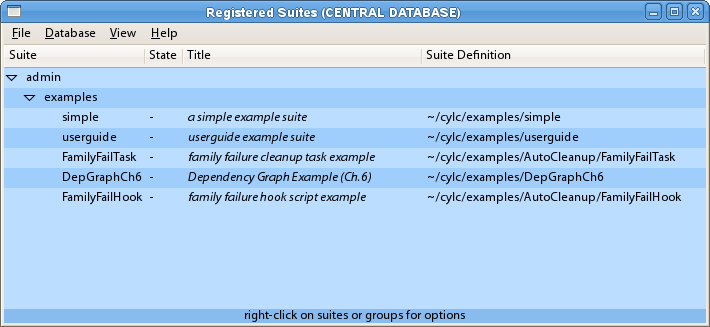
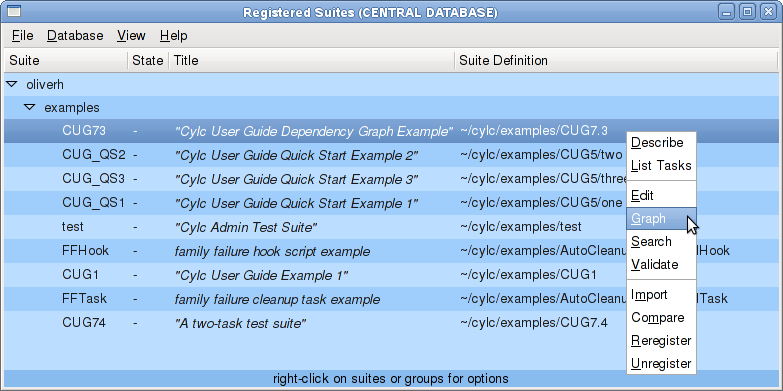
Updated gcylc screen shots

diff --git a/index.html b/index.html
@@ -234,7 +234,8 @@
 				<h3 class="foo"><span>Screen Shots</span></h3>
 				<ul>
 				  <li> <a href="screenshots/commandhelp.png">The command line interface</a></li>
-				  <li> <a href="screenshots/db.png">The gcylc suite database GUI</a></li>
+				  <li> <a href="screenshots/db.png">The gcylc GUI, private suite database</a></li>
+				  <li> <a href="screenshots/cdb.png">The gcylc GUI, central suite database</a></li>
 				  <li> <a href="screenshots/simple-suiterc.png">Editing a suite in vim</a></li>
 				  <li> <a href="screenshots/QuickStartB-graph18.png">The same suite graphed</a></li>
 				  <li> <a href="screenshots/control-trad.png">Tree view suite control GUI</a></li>
